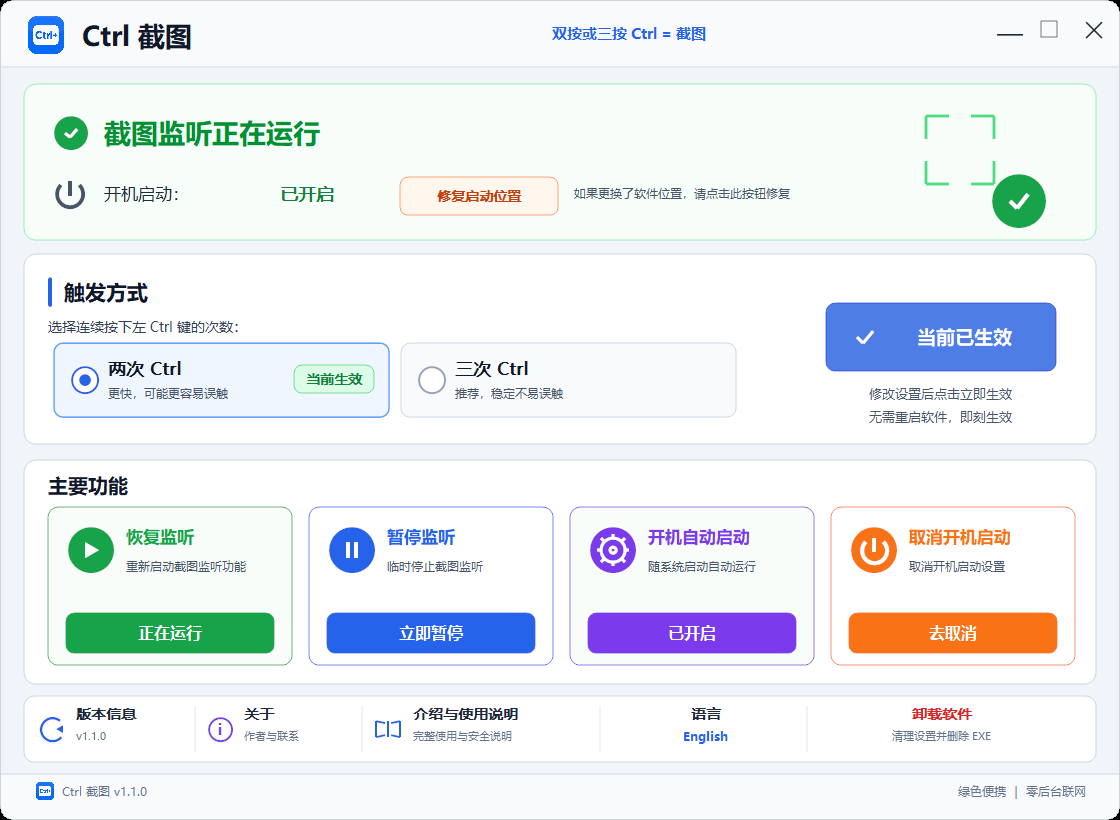
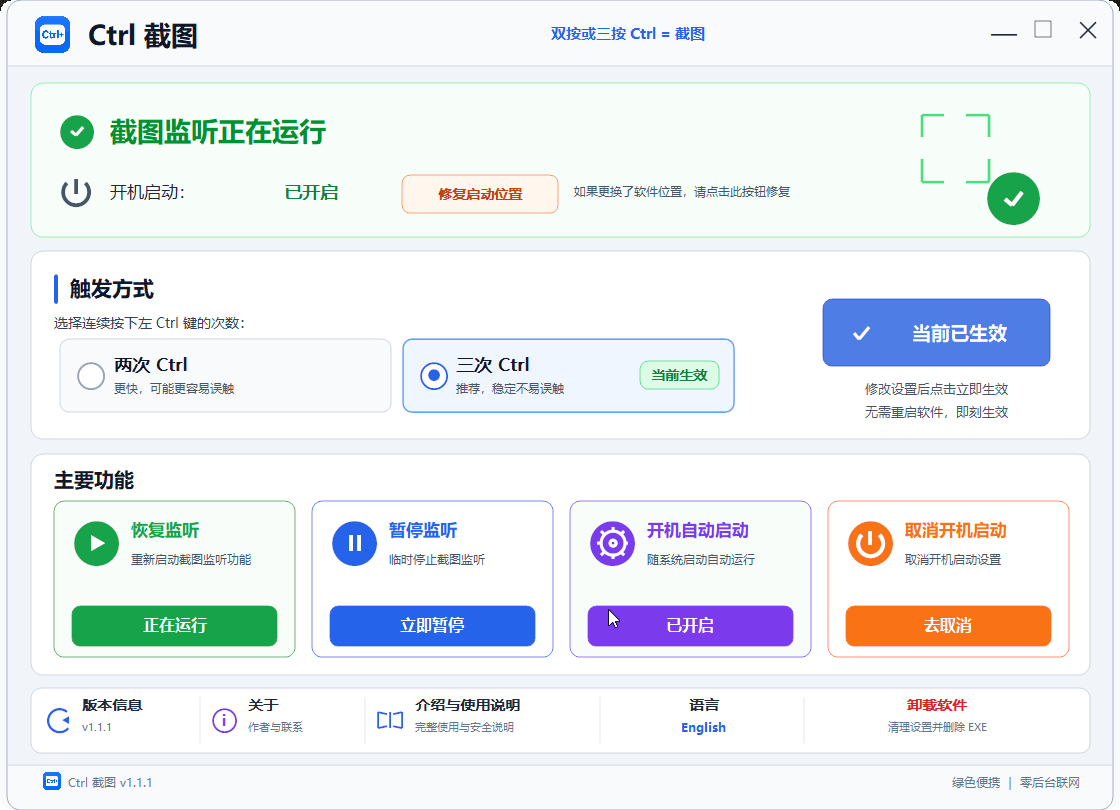
Publish Ctrl Screenshot v1.1.1 demos and downloads

diff --git a/docs/COMMERCIAL_EDITION.md b/docs/COMMERCIAL_EDITION.md
@@ -4,6 +4,10 @@
 
 **双按或三按 Ctrl = 截图**
 
+Current Pro version: **1.1.1**
+
+[观看完整操作演示 MP4 / Watch the full operation demo](https://github.com/liuyifeiyifei999-bot/ctrl-screenshot-windows/releases/download/v1.1.1/Ctrl-Screenshot-Pro-Demo.mp4)
+
 把 `Win + Shift + S` 变成连续轻按两次或三次左 Ctrl。Ctrl Screenshot Pro 只优化触发动作；选区、截图、剪贴板和通知仍由 Windows 系统截图工具处理。
 
 ![Ctrl Screenshot Pro 真实主界面](images/ctrl-screenshot-pro-main-zh.png)
@@ -50,7 +54,7 @@ No tray icon. Closing the window keeps it running in the background; launch the 
 
 > 下方“开机自动启动”只负责开启自动启动。如果您更换了 EXE 的位置，请点击上方“修复启动位置”按钮直接修复。
 
-按钮会立即把开机启动路径修复为当前 EXE 的位置。现在点击或以后手动打开软件再点击都可以；修复后，后续开机都会从新位置自动启动。“取消开机启动”才是关闭自动启动。
+点击后会先提示“如果您更换了这个软件的位置，请点击‘是’修复开机启动路径”。确认后，软件会立即把路径修复为当前 EXE 的位置并显示成功信息。现在点击或以后手动打开软件再点击都可以；修复后，后续开机都会从新位置自动启动。“取消开机启动”才是关闭自动启动。
 
 **Start automatically** below enables automatic startup. After moving the EXE, run it from the new location and click **Repair startup path** at the top. The saved path is repaired immediately. **Disable startup** is the separate action that turns automatic startup off.
 

diff --git a/docs/VALIDATION.md b/docs/VALIDATION.md
@@ -1,6 +1,6 @@
 # 校验记录 / Validation
 
-Validation date: 2026-08-21
+Validation date: 2026-08-22
 
 ## Tested environment
 
@@ -37,6 +37,12 @@ Windows 11 and a native English Windows installation were not available in the c
 - Launch and stop from an English path containing spaces: passed
 - Launch and stop from the repository's Chinese parent path: passed
 - Public-scope scan for EXE, C source, `.workbuddy`, ZIP, and historical HTML: passed
+- Ready-to-run v1.1.1 ZIP expanded and launched from ordinary, space-containing, and Chinese paths: passed
+- Free GIF and MP4 use the real Free listener and real Windows Snipping Tool overlay: passed
+- Pro GIF and MP4 use the real v1.1.1 Pro listener for both double- and triple-tap modes: passed
+- Pro v1.1.1 pause/resume and startup-path repair confirmation/success scenes: passed
+- Media privacy review for account names, notifications, personal paths, taskbar content, and unrelated tray icons: passed
+- Public repository and Release boundary scan for Pro EXE, C/C++ source, private archives, commercial build material, `.workbuddy`, and historical HTML: passed
 
 ## Not automated
 

diff --git a/CHANGELOG.md b/CHANGELOG.md
@@ -1,5 +1,15 @@
 # Changelog
 
+## 1.1.1 - 2026-08-22
+
+- Added real Free and Pro operation demos: short GIFs for the repository and full bilingual MP4 videos for the Release.
+- Added a ready-to-run Free ZIP with the six runtime/startup-management scripts at the package root.
+- Simplified Quick Start to download, extract, double-click, and triple-tap Left Ctrl.
+- Updated all Pro screenshots and demo scenes to the v1.1.1 application and EXE version.
+- Documented the repair-startup-path confirmation and success flow after moving the EXE.
+- Added direct Release download links and final GitHub presentation improvements.
+- No change to the Free triple-tap trigger algorithm.
+
 ## Ctrl Screenshot brand update - 2026-08-21
 
 - Renamed the product from Super Screenshot to **Ctrl Screenshot**.
